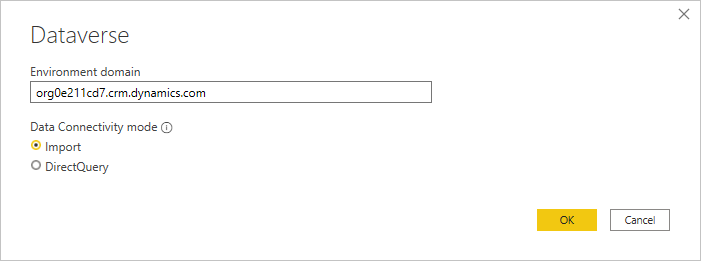
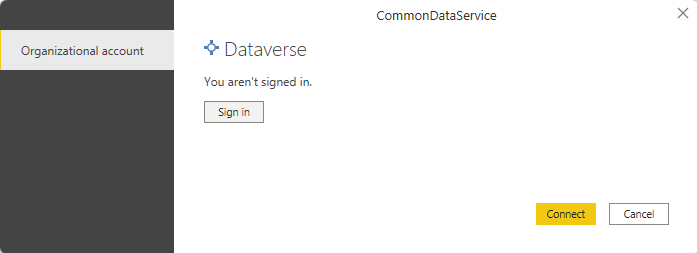
update Create reports with Power BI and Dataverse for Teams

diff --git a/learn-bizapps-pr/power-bi/dataverse-teams-power-bi/includes/2-connect-transform.md b/learn-bizapps-pr/power-bi/dataverse-teams-power-bi/includes/2-connect-transform.md
@@ -48,7 +48,7 @@ To connect to Dataverse for Teams table data, follow these steps:
     > [!div class="mx-imgBorder"]
     > [![Screenshot of the Get Data page with Microsoft Power Platform selected and Dataverse highlighted.](../media/image-4.png)](../media/image-4.png#lightbox)
 
-1. Enter the environment URL for the Dataverse for Teams table that you copied previously. Remove the **https://** protocol and the trailing slash (**/**) from the URL. Set **Data Connectivity mode** to **Import** and then select **OK**.
+1. Here you will be prompted to sign into Organizational account.
 
     > [!div class="mx-imgBorder"]
     > [![Screenshot of the Dataverse dialog box with Environment domain set to org0e211cd1.crm.dynamics.com and Data Connectivity mode set to Import.](../media/image-5.png)](../media/image-5.png#lightbox)
